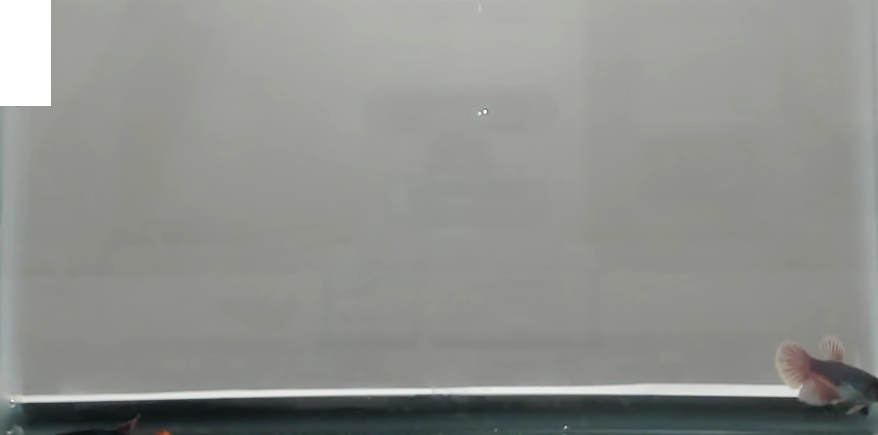
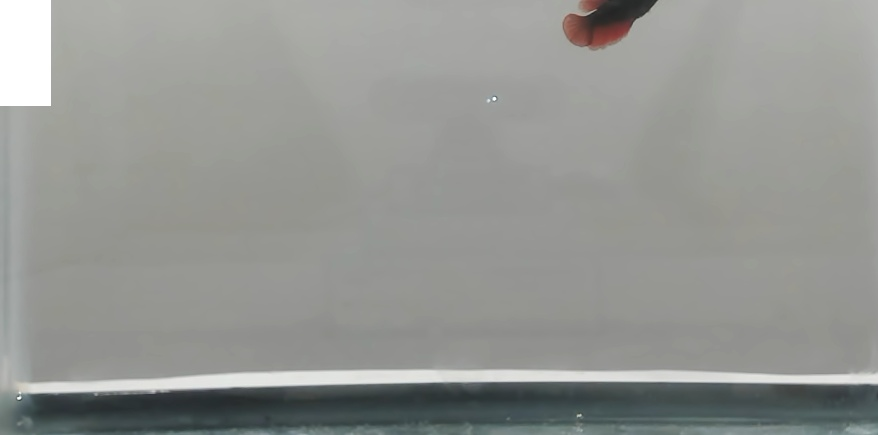
movement patterns translated bounding boxes

Changed region(s): [[0.0, 0.777, 1.0, 1.0], [0.615, 0.0, 0.7688, 0.1195], [0.5535, 0.2092, 0.5843, 0.2391]]

diff --git a/templates/index.html b/templates/index.html
@@ -10,11 +10,13 @@
             console.log('Connected to the server');
         });
 
+        
         socket.on('detection', function (data) {
             console.log('Detection - Object:', data.class_name);
             console.log('Confidence:', data.confidence);
             console.log('Bounding Box:', data.bbox);
             console.log('Track ID:', data.track_id);
+            console.log(`Movement Pattern: ${data.pattern}`);
         });
 
         function startWebcam() {

diff --git a/fish_tracking.py b/fish_tracking.py
@@ -8,7 +8,7 @@ def process_video(video_path):
         device = 'mps'
     else:
         device = 'cpu'
-    model = YOLO("fish.pt").to(device) # yolov8s = 15 fps
+    model = YOLO("fish.pt").to(device)  # Load your YOLO model
  
     # Retrieve class names directly from the model
     class_names = model.names
@@ -36,32 +36,25 @@ def process_video(video_path):
             # Crop the frame
             cropped_frame = frame[y_start:y_start+new_height, x_start:x_start+new_width]
 
-            rect_x, rect_y = 0, 0 
-
+            rect_x, rect_y = 0, 0
             rect_width, rect_height = 50, 105
 
+            # Draw a white rectangle for visualization
             cv2.rectangle(cropped_frame, (rect_x, rect_y), (rect_x + rect_width, rect_y + rect_height), (255, 255, 255), -1)
-
-            cv2.imwrite('frame.jpg', cropped_frame) 
-
-            
 
             # Run YOLO tracking on the frame, persisting tracks between frames
             results = model.track(cropped_frame, persist=True, tracker="botsort.yaml")
-            
-            # Visualize the results on the frame
-            annotated_frame = results[0].plot()
 
-            # Display the annotated frame
-            cv2.imshow("YOLO Tracking", annotated_frame)
-
-            # Loop through the results and print bounding boxes, class names, confidence, and tracking ID
+            # Loop through the results and extract bounding boxes, class names, confidence, and tracking ID
             for result in results:
                 if result.boxes:
                     for box in result.boxes:
                         # Extract bounding box coordinates (xmin, ymin, xmax, ymax)
                         coords = box.xyxy[0].cpu().numpy()
                         xmin, ymin, xmax, ymax = coords
+
+                        # Calculate the center of the bounding box (c_curr)
+                        c_curr = (int((xmin + xmax) / 2), int((ymin + ymax) / 2))
 
                         # Extract the class index and map it to the class name using model.names
                         obj_class = int(box.cls.cpu().numpy().item())
@@ -71,10 +64,29 @@ def process_video(video_path):
                         confidence = float(box.conf.cpu().numpy().item())
 
                         # Extract the tracking ID (if available)
-                        track_id = int(box.id.cpu().numpy().item()) if box.id is not None else "No ID"
+                        track_id = int(box.id.cpu().numpy().item()) if box.id is not None else None
 
-                        # Print the details with class name
-                        print(f"Object: {class_name}, Confidence: {confidence:.2f}, BBox: [{xmin}, {ymin}, {xmax}, {ymax}], ID: {track_id}")
+                        # If track_id is None, skip drawing and storing movement patterns
+                        if track_id is not None:
+                            # Print the details with class name and track ID
+                            print(f"Object: {class_name}, Confidence: {confidence:.2f}, BBox: [{xmin}, {ymin}, {xmax}, {ymax}], ID: {track_id}")
+
+                            # Get the moving patterns of the tracked fish
+                            pattern = get_patterns(c_curr, track_id)  # Store pattern based on track_id
+                            pre_p = c_curr
+
+                            # Draw the movement patterns on the frame
+                            for p in pattern[-20::5]:  # Skip every 5th frame to avoid clutter
+                                cv2.circle(cropped_frame, p, 3, (0, 255, 0), -1)  # Draw small circles at each point
+                                if pre_p != c_curr:
+                                    cv2.line(cropped_frame, pre_p, p, (0, 255, 0), 1)  # Draw lines connecting points
+                                pre_p = p
+
+            # Visualize the results on the frame
+            annotated_frame = results[0].plot()
+
+            # Display the annotated frame
+            cv2.imshow("YOLO Tracking", annotated_frame)
 
         # Break the loop if 'q' is pressed
         if cv2.waitKey(1) & 0xFF == ord("q"):
@@ -83,6 +95,25 @@ def process_video(video_path):
     # Release the video capture object and close the display window
     cap.release()
     cv2.destroyAllWindows()
+
+# Function to store movement patterns of the tracked fish
+dict_tracks = {"Fish": {}}
+
+def get_patterns(center, track_id):
+    # Ensure the track ID is a string to prevent issues with dict keys
+    track_id = str(track_id)
+
+    # Check if this track_id already has a stored pattern
+    if track_id in dict_tracks["Fish"]:
+        dict_tracks["Fish"][track_id].append(center)
+    else:
+        dict_tracks["Fish"][track_id] = [center]
+
+    # Keep only the last 30 positions, remove older ones
+    if len(dict_tracks["Fish"][track_id]) > 30:
+        del dict_tracks["Fish"][track_id][:10]
+        
+    return dict_tracks["Fish"][track_id]
 
 # Define video path
 video_path = 0  # Use 0 for webcam, or path to a video file for video

diff --git a/app.py b/app.py
@@ -73,6 +73,15 @@ def process_video(video_path):
                         coords = box.xyxy[0].cpu().numpy()
                         xmin, ymin, xmax, ymax = [float(coord) for coord in coords]
 
+                        # Translate bounding box coordinates back to the original 1920x1080 frame
+                        xmin += x_start
+                        ymin += y_start
+                        xmax += x_start
+                        ymax += y_start
+                
+                        # Calculate the center of the bounding box (c_curr)
+                        c_curr = (int((xmin + xmax) / 2), int((ymin + ymax) / 2))
+
                         # Extract the class index and map it to the class name using model.names
                         obj_class = int(box.cls.cpu().numpy().item())
                         class_name = class_names.get(obj_class)
@@ -83,16 +92,23 @@ def process_video(video_path):
                         # Extract the tracking ID (if available)
                         track_id = int(box.id.cpu().numpy().item()) if box.id is not None else "No ID"
 
-                        # Print the details with class name
-                        print(f"Object: {class_name}, Confidence: {confidence:.2f}, BBox: [{xmin}, {ymin}, {xmax}, {ymax}], ID: {track_id}")
+                        # If track_id is None, skip drawing and storing movement patterns
+                        if track_id is not None:
+                            # Print the details with class name and track ID
+                            print(f"Object: {class_name}, Confidence: {confidence:.2f}, BBox: [{xmin}, {ymin}, {xmax}, {ymax}], ID: {track_id}")
 
-                        # Emit all details to the client as a dictionary, ensuring all types are JSON-serializable
-                        socketio.emit('detection', {
-                            'class_name': class_name,
-                            'confidence': confidence,
-                            'bbox': [xmin, ymin, xmax, ymax],
-                            'track_id': track_id
-                        })
+                            # Get the moving patterns of the tracked fish
+                            pattern = get_patterns(c_curr, track_id)  # Store pattern based on track_id
+                            pre_p = c_curr
+                        
+                            # Emit all details to the client as a dictionary, ensuring all types are JSON-serializable
+                            socketio.emit('detection', {
+                                'class_name': class_name,
+                                'confidence': confidence,
+                                'bbox': [xmin, ymin, xmax, ymax],
+                                'track_id': track_id,
+                                'pattern': pattern[-20::5] # Send only the last 50 points, skipping every 5th point
+                            })
         # Break the loop if 'q' is pressed
         if cv2.waitKey(1) & 0xFF == ord("q"):
             break
@@ -100,6 +116,26 @@ def process_video(video_path):
     # Release the video capture object and close the display window
     cap.release()
     cv2.destroyAllWindows()
+
+
+# Function to store movement patterns of the tracked fish
+dict_tracks = {"Fish": {}}
+
+def get_patterns(center, track_id):
+    # Ensure the track ID is a string to prevent issues with dict keys
+    track_id = str(track_id)
+
+    # Check if this track_id already has a stored pattern
+    if track_id in dict_tracks["Fish"]:
+        dict_tracks["Fish"][track_id].append(center)
+    else:
+        dict_tracks["Fish"][track_id] = [center]
+
+    # Keep only the last 30 positions, remove older ones
+    if len(dict_tracks["Fish"][track_id]) > 30:
+        del dict_tracks["Fish"][track_id][:10]
+        
+    return dict_tracks["Fish"][track_id]
 
 if __name__ == '__main__':
     socketio.run(app, debug=True, port=8000)
